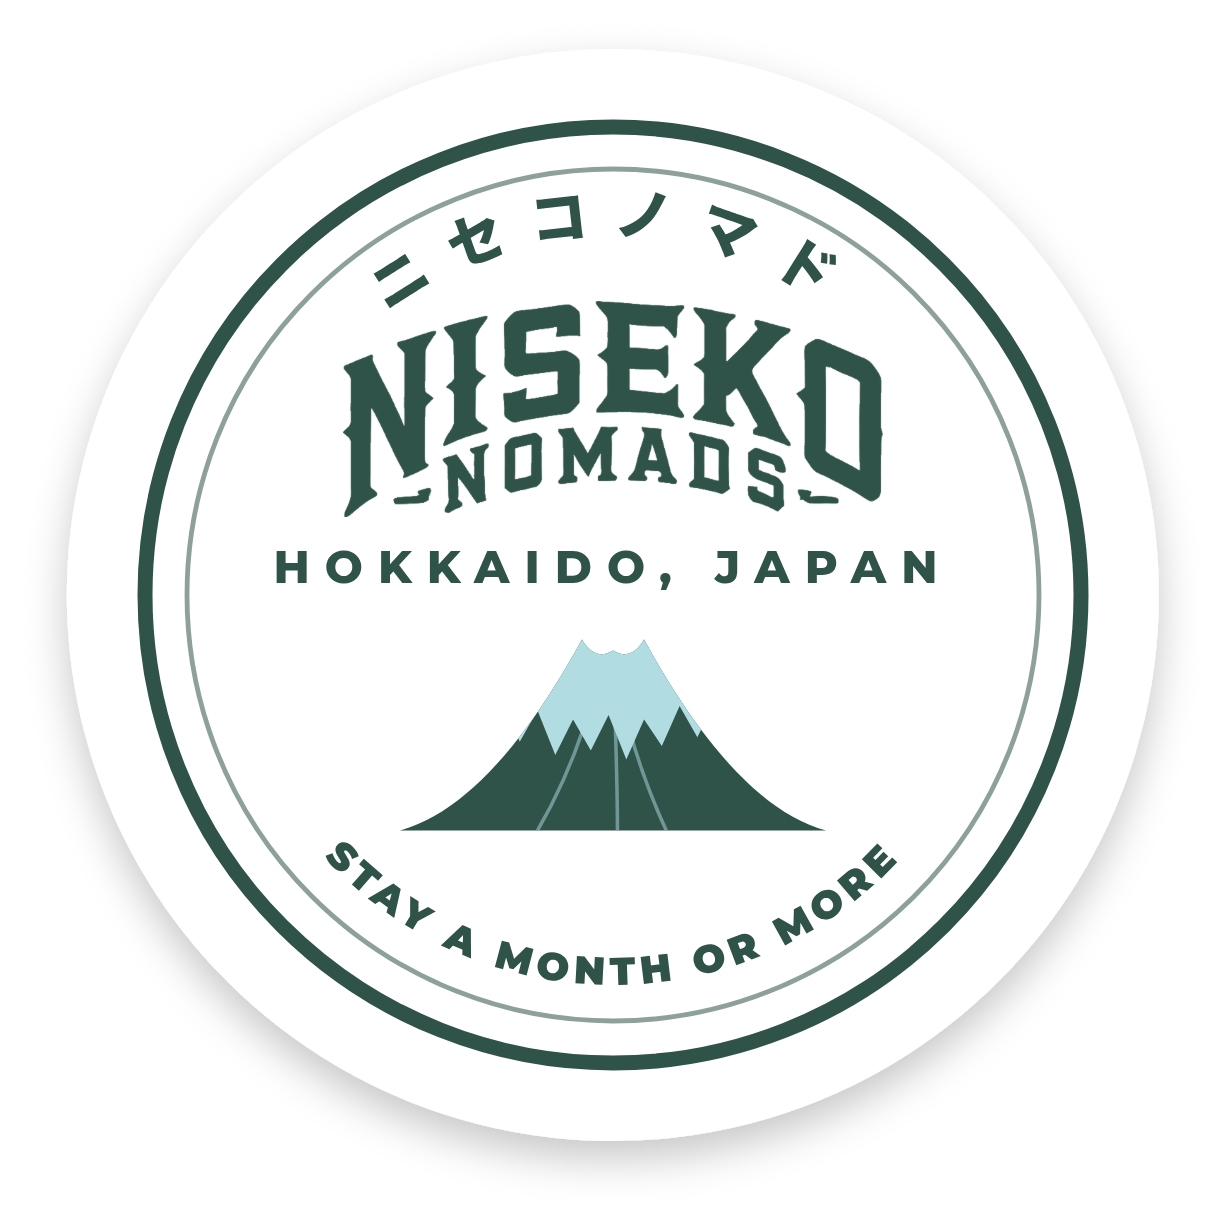
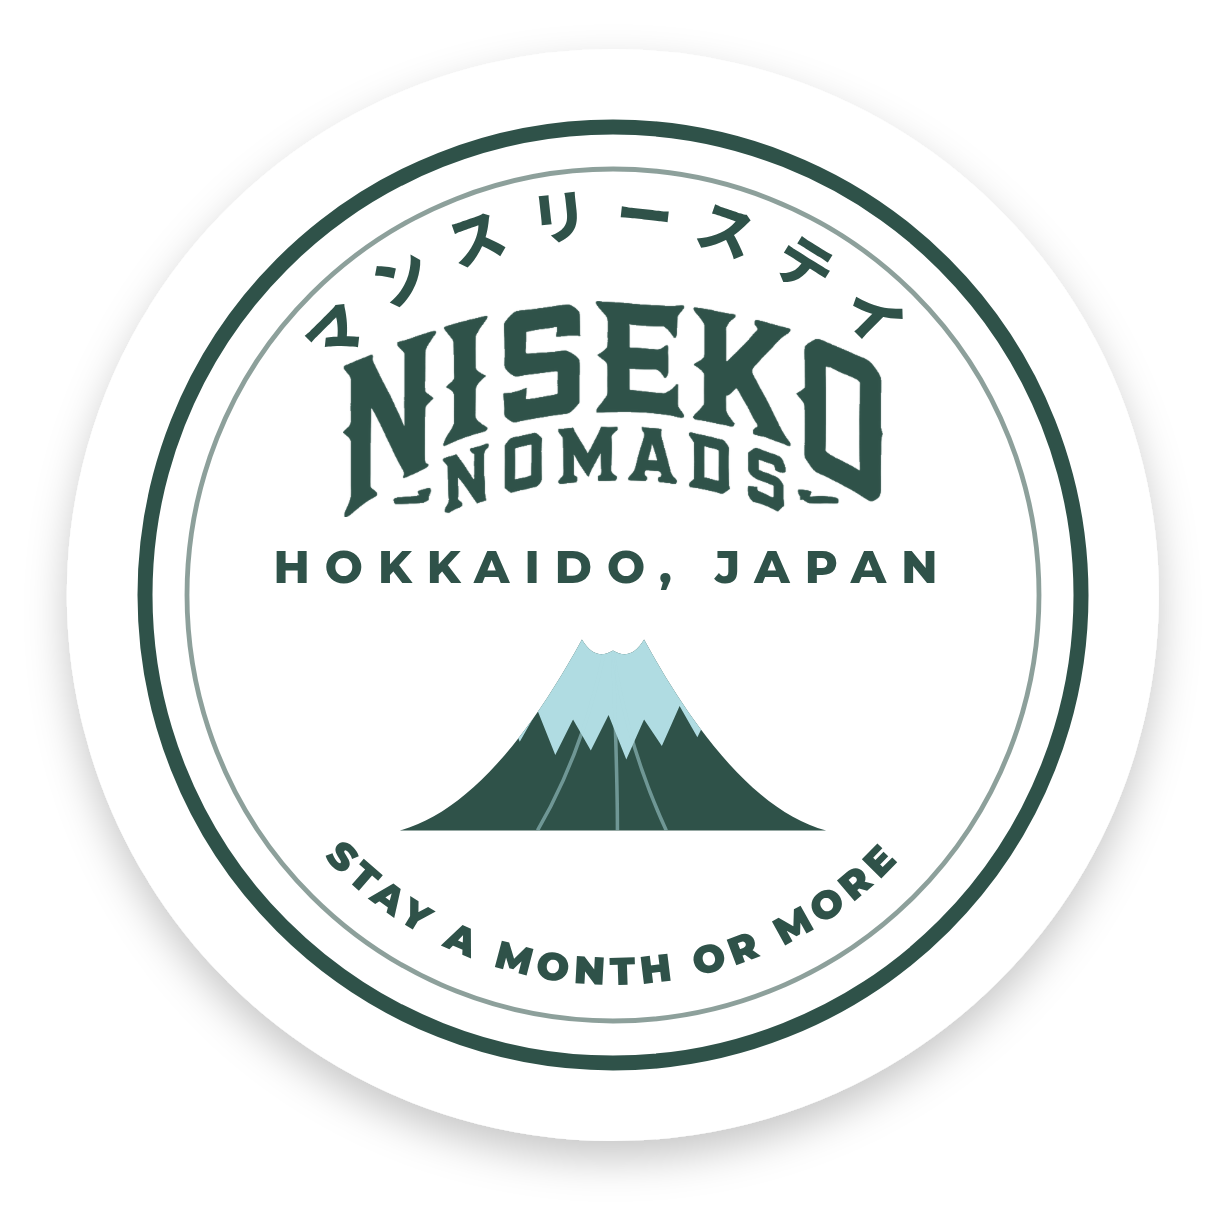
Use マンスリーステイ as the single katakana line across every design

diff --git a/index.html b/index.html
@@ -127,11 +127,11 @@ const GROUPS = [
   ['Outline circle crests', 'White body, all-green ink, thin double ring — the light-weight round option', [
     ['03-circle-crest-white','Circle crest · white','75 mm circle · HOKKAIDO · JAPAN on the bottom arc'],
     ['04-circle-crest-stay-a-month','Circle crest · stay a month or more','Place line under the wordmark'],
-    ['11-circle-crest-katakana-arc','Circle crest · katakana arc','ニセコノマド curved above the wordmark'],
+    ['11-circle-crest-katakana-arc','Circle crest · katakana arc','マンスリーステイ curved above the wordmark'],
   ]],
   ['Cone die-cuts', 'Cut to the mountain itself, plinth carries the words', [
     ['05-cone-die-cut','Cone die-cut','80 × 70 mm · HOKKAIDO, JAPAN'],
-    ['10-cone-die-cut-katakana','Cone die-cut · katakana','ニセコノマド under the banner'],
+    ['10-cone-die-cut-katakana','Cone die-cut · katakana','マンスリーステイ under the banner'],
     ['12-cone-die-cut-monthly','Cone die-cut · monthly accommodation','Katakana version, MONTHLY ACCOMMODATION'],
     ['14-cone-die-cut-month-long','Cone die-cut · month long','Katakana version, MONTH LONG ACCOMMODATION'],
   ]],
